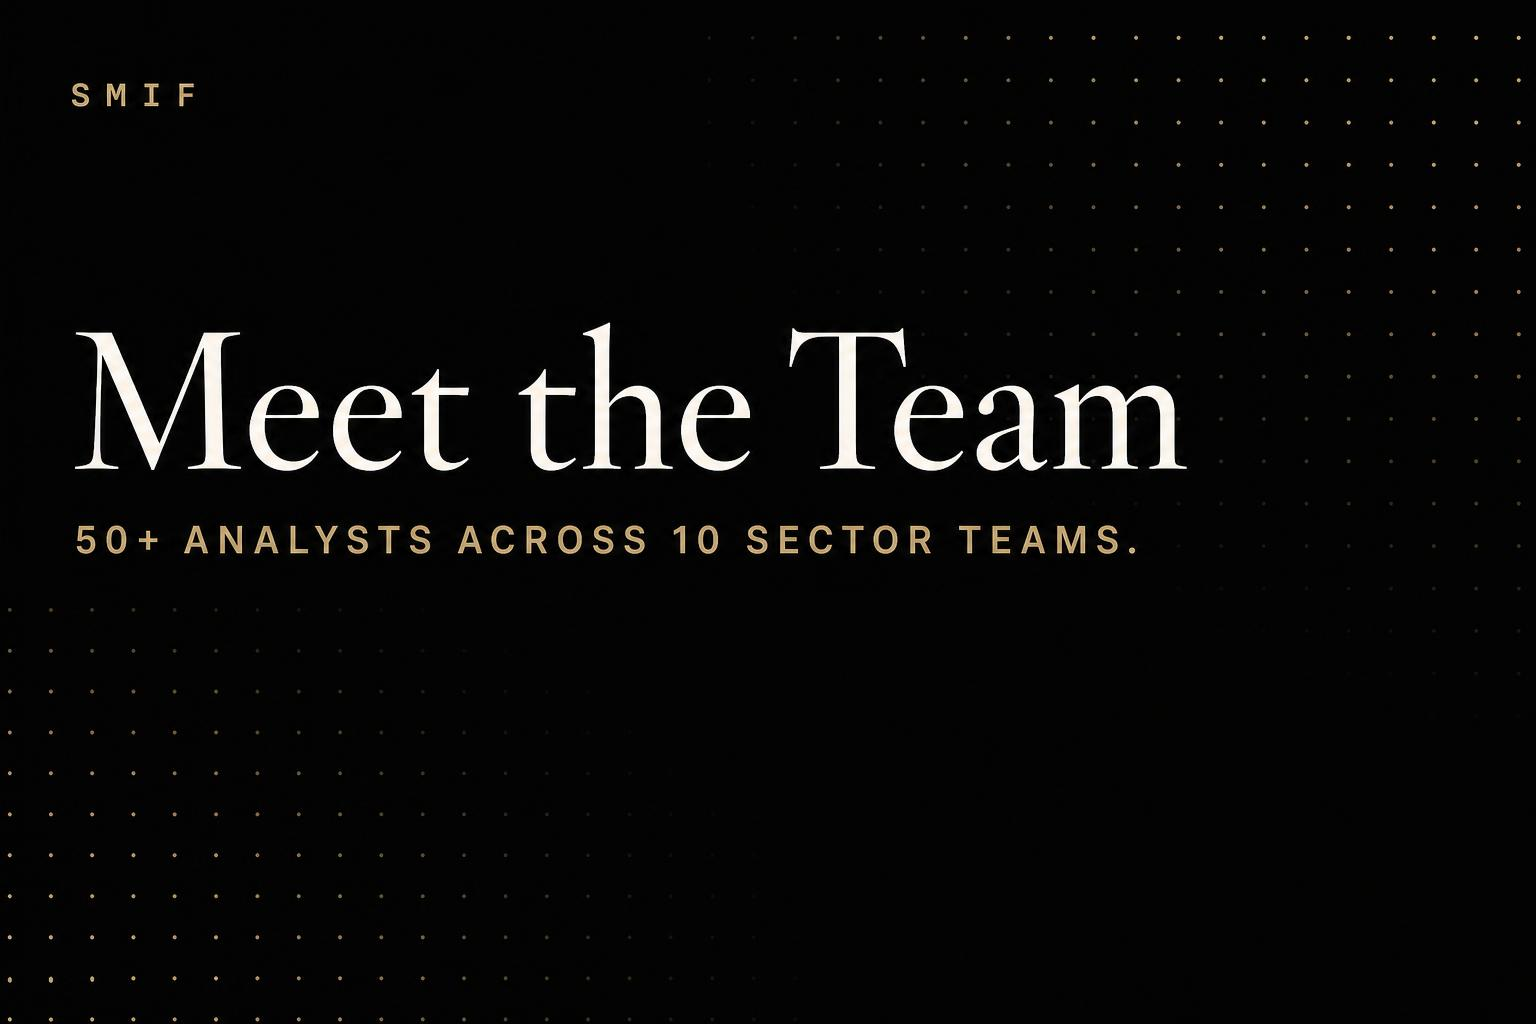
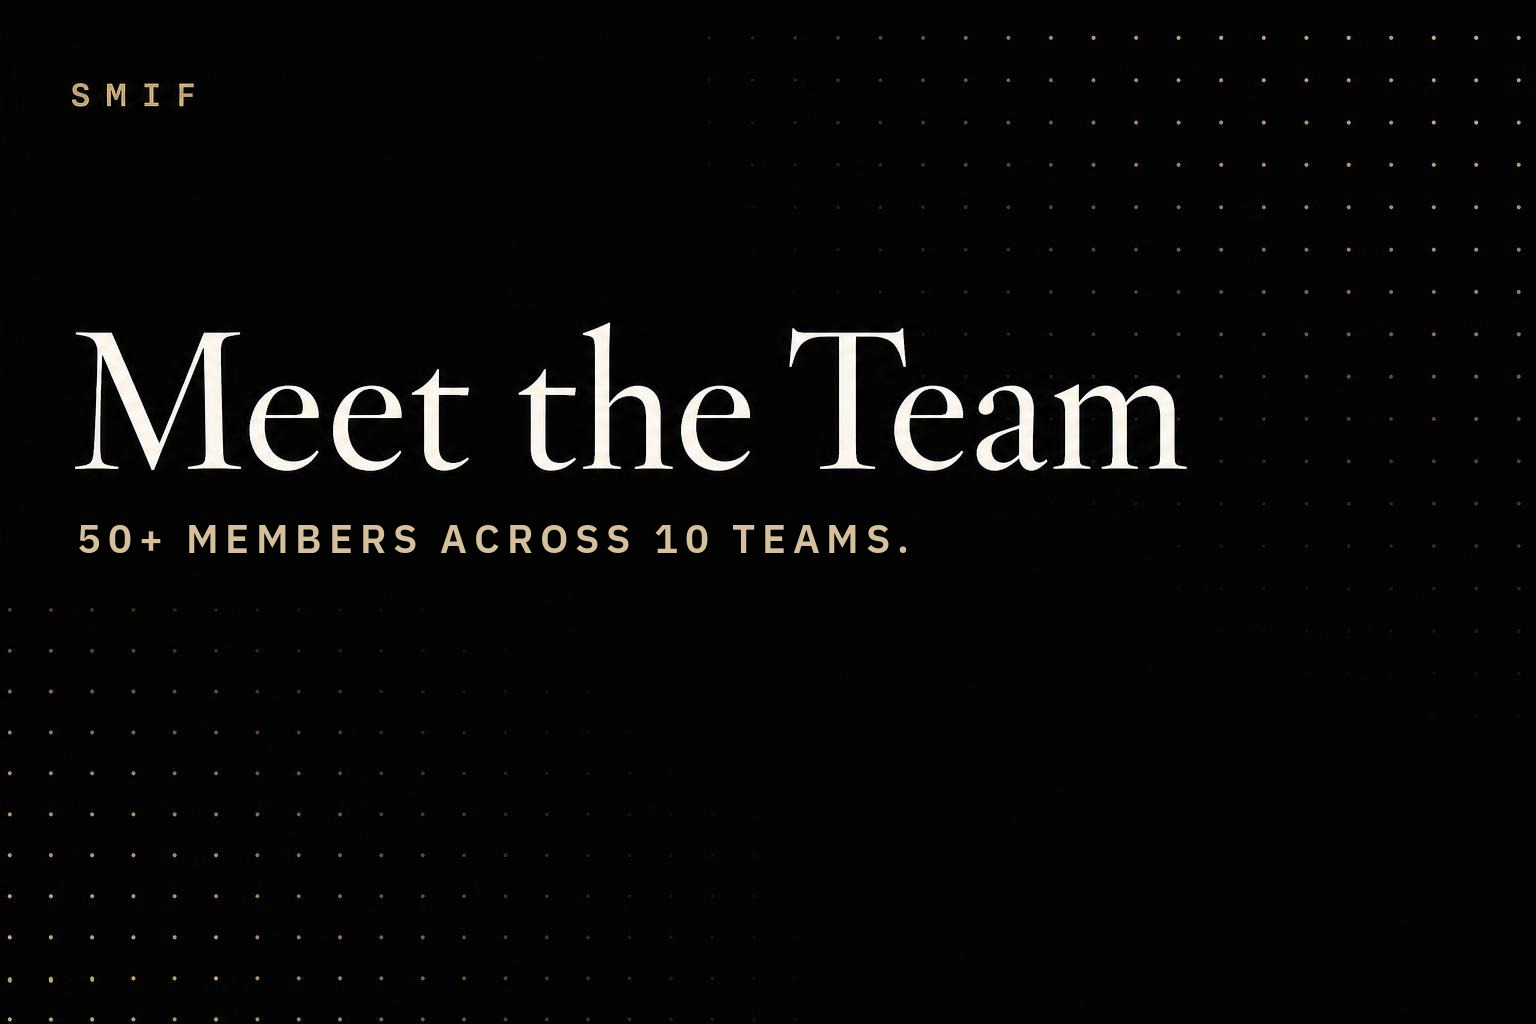
Align social cards and SEO plan with confirmed founding year 1995
Four social cards carried text that contradicted the site: og-about and
og-share said EST. 2009 (og-about also 'Premier'), og-team said '50+
analysts across 10 sector teams', og-sectors said 'Eleven coverage
teams'. Only the text lines were re-rendered; dimensions are unchanged.
Production fund_stats.founded_year is already 1995. SEO plan updated.

Claude-Session: https://claude.ai/code/session_018PAfj5hGkd3bCA9cVsg2xi

Changed region(s): [[0.0312, 0.5, 0.75, 0.5625]]

diff --git a/docs/seo-plan.md b/docs/seo-plan.md
@@ -19,7 +19,7 @@ Positions below are from Firecrawl's index on 2026-11-10, directional rather tha
 
 Reading: the site owns its brand queries. The open ground is the generic head terms ("investment club", "student managed investment fund") and the pitch intent, and the three weak spots below.
 
-1. **Facts disagree across the web.** The site says founded 1995. LinkedIn and Instagram say 2009, and the site's own social-card images say "EST. 2009". Fund size ranges from $270,000 to $600,000 across the Daniels page, a Facebook group, RocketReach and the course catalog. Search engines and AI answers read all of these.
+1. **Facts disagree across the web.** The site says founded 1995, and that is confirmed (2026-11-10). LinkedIn and Instagram say 2009, and until this branch the site's own social-card images said "EST. 2009". Fund size ranges from $270,000 to $600,000 across the Daniels page, a Facebook group, RocketReach and the course catalog. Search engines and AI answers read all of these.
 2. **The best page for the strongest target query had one internal link** (the footer).
 3. **No page targeted** "student managed investment fund" as a concept, the pitch process, or the interview-prep long tail.
 
@@ -69,15 +69,15 @@ New indexable pages, each with its own title, description, one keyword-bearing h
 - `/learn/glossary`: the glossary as its own page.
   Also: a plain "what is SMIF" section on the home page with employers as real text, descriptive internal links to the finance-clubs guide from the home, about, apply, recruiting and learn pages, member pages linking to their sector team, and keyword-bearing headings (`/apply` is now "How to join Purdue SMIF", `/contact` is "Contact Purdue SMIF").
 
-### D. Entity consistency: Owner
+### D. Entity consistency: Partly done, rest is Owner
 
 This is the highest-value item and no code can do it.
 
-1. **Decide the founding year, 1995 or 2009, and the other facts.** The site, structured data and `llms.txt` say 1995; LinkedIn, Instagram and the site's own social-card images say 2009. Until one is true everywhere, AI answers and search snippets will be wrong in one direction or the other.
+1. **Founding year: decided, 1995. Done on the site.** The site, structured data, `llms.txt`, the production `fund_stats` row and now the social cards all say 1995. LinkedIn and Instagram still say 2009 (owner action, item 2). Until they change, AI answers and search snippets can still pick the wrong year.
 2. Fix every profile to match: LinkedIn and Instagram bios, the Daniels MS Finance page (states about $400,000), the Purdue course catalog (states $300,000 as of 2017), the Facebook group, RocketReach.
 3. Decide whether to state the origin gift (LinkedIn and RocketReach mention a $100,000 donation) and the course-credit option (BoilerLink lists 1 or 2 credit hours); both are on other sites but not on this one.
-4. Regenerate the social-card images. Several carry baked-in text that contradicts the site: "EST. 2009", "Premier", "50+ analysts across 10 sector teams", "Eleven coverage teams". They are the cards shown when a page is shared.
-   Once decided, tell me the facts and I will update the site, structured data, `llms.txt` and the cards in one pass.
+4. **Social cards: Done.** Four cards carried text that contradicted the site and were corrected in place (only the text line changed): `og-about` and `og-share` ("EST. 2009" to "EST. 1995"; "Premier" dropped), `og-team` ("50+ analysts across 10 sector teams" to "50+ members across 10 teams"), `og-sectors` ("Eleven coverage teams" to "Eight equity sector teams"). Sizes are unchanged, so the declared dimensions still match. Facts still undecided: fund size as-of date, the origin gift, and the course-credit option (item 3).
+   Social platforms cache cards by URL. After deploy, re-scrape the key pages in the LinkedIn Post Inspector and the Facebook Sharing Debugger so the old images stop showing.
 
 ### E. Authority and off-site: Owner
 
@@ -110,8 +110,8 @@ This is the highest-value item and no code can do it.
 
 | Window        | Work                                                                                                                                                             |
 | ------------- | ---------------------------------------------------------------------------------------------------------------------------------------------------------------- |
-| Week 1        | Ship this branch. Decide the founding year and facts (D). Submit the sitemap in Search Console. Add Semrush API units and rerun research (F).                    |
-| Weeks 2 to 4  | Correct third-party profiles (D2). Send the Purdue link requests (E). Regenerate social cards (D4). Check the live contact form once after deploy.               |
+| Week 1        | Ship this branch. Decide the remaining facts (D3). Submit the sitemap in Search Console. Add Semrush API units and rerun research (F).                    |
+| Weeks 2 to 4  | Correct third-party profiles (D2). Send the Purdue link requests (E). Check the live contact form once after deploy.               |
 | Weeks 4 to 8  | Review Search Console for the new pages' impressions and queries; tune titles on pages with high impressions and low clicks. Publish on-site research pages (G). |
 | Weeks 8 to 12 | Refresh dated pages, reassess head-term positions, add the next missing page indicated by Search Console queries.                                                |
 
